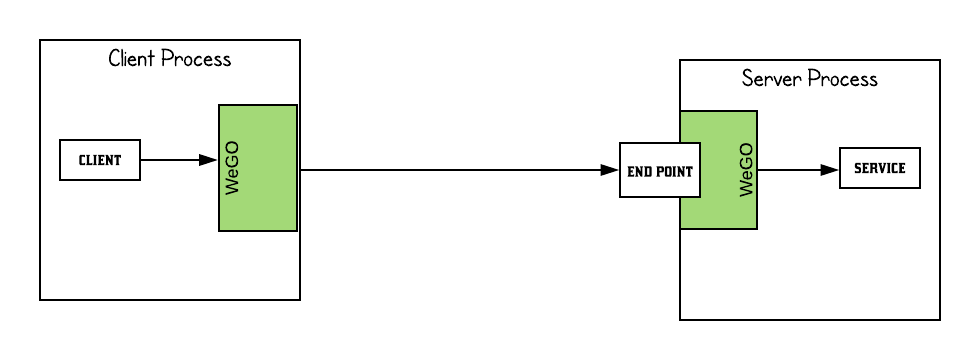
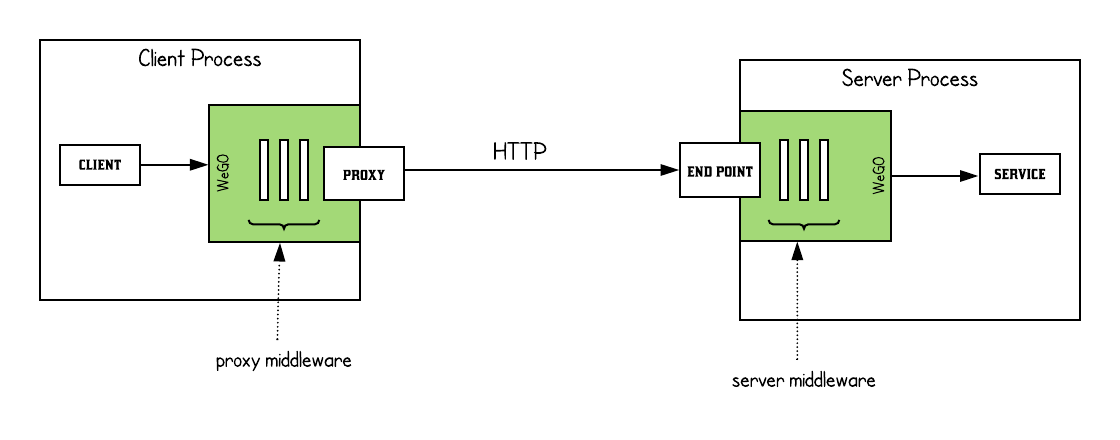
changes for documentation

Changed region(s): [[0.0306, 0.0611, 0.9796, 0.7333], [0.0306, 0.7944, 0.3367, 0.8556], [0.6429, 0.8556, 0.949, 0.9167]]

diff --git a/css/theme-dark.css b/css/theme-dark.css
@@ -4,11 +4,15 @@
     font-size:16px;
 }
 
-body, .panel-body, #myTabContent{
+body, .panel-body{
     background-color: black;
     color: wheat;
 }
 
+#myTabContent{
+    background-color: darkslategrey;
+    color: wheat;
+}
 
 h1 { color: yellow;}
 h2 {color: white;}

diff --git a/pages/wego/core.md b/pages/wego/core.md
@@ -7,75 +7,81 @@ permalink: wego_core.html
 folder: wego
 ---
 ## The WEGO Core Service Mesh Framework 
-WEGO can be thought of as an in process service mesh. It completely abstracts the service from the complexity of dealing with multiple transports, handling transformations and implementing horizontal requirements. On the client side, It can allow clients to access remote services by providing a proxy. 
+WEGO can be thought of as an in process service mesh. It completely abstracts the service from the complexity of dealing with multiple transports, handling transformations and implementing horizontal requirements. 
 
-The concept of transports in WeGO is much more generic and will be discussed in a separate document
+On the client side, it can allow clients to access remote services by providing a proxy. On the server side it provides the transport end point and connects the end point to a service. The transport is also responsible to deserialize the requests and convert them to the form expected by the service. The transport in the return journey, serializes the response and sends it out.
 
-For now, let us discuss this in the context of HTTP.  Look at the diagram below:
+On the client side, the proxy does the thing in reverse. WeGO also handles errors seamlessly and provides standards to emit errors from the server side to the client side. Middlewares are supported on both the client and the server side.
+
+This entire process is illustrated in the diagram below:
 
 ![Interaction Diagram](images/wego/wego_interaction.png)
 
-WeGO library is present in both the client and server process. In the client process, WeGO provides a proxy to interact with the service. The WeGO proxy interacts with the server process via HTTP. In the server process, WeGO provides the transport end point. Upon invocation, the HTTP end point invokes the actual service.
 
-In this way, the WeGO library completely abstracts the service invocation from both the client and the server side. The core framework allows the registration of services and their operations. It provides the fundamental edifice on which the entire framework rests. Here are the salient features of the core framework:
+In this way, the WeGO library completely abstracts the service invocation from both the client and the server side. 
 
-1. Provide ability for a service to register itself with the framework. Services expose operations which accept parameters that can be encoded in multiple ways.  See the http module for a more detailed discussion.
-2. Provide ability for a transport such as HTTP to register itself as an extension to the WeGO framework.
+## The WeGO Core Package
+
+The WeGO Core package allows the registration of services and their operations. It provides the fundamental edifice on which the entire framework rests. Here are the salient features of the core framework:
+
+1. Provide ability for a service to register itself with WeGO. Services expose operations which accept parameters. The entire information is registered in WeGO core.
+2. Provide ability for a transport such as HTTP to register itself as an extension to the WeGO framework. This keeps WeGO core simple and extensible.
 3. Definition and registration of middlewares. These middlewares are invoked whenever the service is invoked. Middlewares can be registered for both client (proxy) and server.
+4. The WeGO core package defines the central model for registration and Middleware that will be used everywhere.
+
  
 ## Service Registration
 
-A service can have one or more multiple methods called Operations. Each operation can in turn accept parameters which can be encoded in multiple ways in the incoming request. 
+A service can have one or more multiple methods called Operations. Each operation can in turn accept parameters which can be encoded in multiple ways in the incoming request. Every service must register itself with the WeGO service mesh using the WeGO core package. 
 
 WeGO services can register themselves in two modes:
-1. Client Mode - the actual service information is registered. However the service is not exposed in this mode using any transport. e
-2. Server Mode -  the service is not only registered. It is also exposed via a transport layer such as HTTP. 
+1. Client Mode - the service information is registered. However the service is not exposed in this mode using any transport. This mode works well in the client side (proxy side) as shown in the diagram above
+2. Server Mode -  the service is not only registered. It is also exposed via a transport layer such as HTTP.  This mode works for the server side shown above. 
 
-Client mode is useful if it is intended to invoke the service using the Proxy framework that WeGO supports.However in this mode,  transports are not supported. Consequently, the service will not be available for 
-remote invocation via HTTP or other means.  Services can only be registered in server mode in one executable. In other executables, the service is registered only as in client mode.
+##  A note on Deployables
+<p class='message'>
+WeGO advocates that a bunch of services must be packaged together into a deployable artifact. A service will be hosted by one deployable in the server mode - i.e. the service will be exposed via HTTP using one deployable only. Other deployables will invoke the service using proxy. The service will be configured in "client mode" in every other deployable. 
+</p>
+Client mode is useful if it is intended to invoke the service using the Proxy framework that WeGO supports.However in this mode,  transports are not supported. 
 
 ## How do services register themselves?
 
 A service is registered using a model object called _Service Descriptor_ that describes the service. It contains Name and a description. Besides that it contains an array of operations that describe the operations that the service supports. Each operation is described using OperationDescriptor.
+
+Here is some code that can be used to typically register the service:
+```go
+import "github.com/agorago/wego/fw" // import WeGO core as fw
+...
+var serviceDescriptor fw.ServiceDescriptor
+// construct serviceDescriptor
+wegoService :=  
+// Get hold of the wegoService first either from command Catalog or some other way
+wegoService.RegisterService("<service-name>",serviceDescriptor)
+```
+
  
-If the service is registered in server mode, then a reference to the actual service is expected to be populated in the  the service descriptor. If service reference is null then it is assumed that the service 
-is registered in client mode. Otherwise, the service reference is required since the transport needs to 
-call the actual service when a request for service is received by the transport end point.
+If the service is registered in server mode, then a reference to the actual service is expected to be populated in the  the service descriptor. If service reference is null then it is assumed that the service is registered in client mode. 
 
 ## Operation Descriptor
 
-Operation descriptors describe the operation that belongs to the service. The operation would be typically
-exposed by the transport. Since an operation is accessible from outside, it will expose a URL. Operations
-are invoked by WeGO when the transport is accessed. (for example when someone invokes the HTTP URL)
+Operation descriptors describe the operation that belongs to the service. The operation would be typically exposed by the transport. Since an operation is accessible from outside, it will expose a URL. Operations are invoked by WeGO when the transport is accessed. (for example when someone invokes the HTTP URL)
 
 Operation descriptor gives details about the operation such as the following:
-name - used to actually invoke the operation from the service reference in ServiceDescriptor
-description, Request Description, Response Description - used to describe the service in generated swagger 
-documentations
-URL - used to expose the operation via HTTP
-OpRequestMaker , OpResponseMaker - These functions generate empty request and response objects. useful to 
-populate the objects from serialized streams of data (such as JSON streams)
-OpMiddleware, ProxyMiddleware - the middleware functions that will be invoked when the operation is invoked
+* name - used to actually invoke the operation from the service reference in ServiceDescriptor
+* description, Request Description, Response Description - used to describe the service in generated swagger documentations
+* URL - used to expose the operation via HTTP
+* OpRequestMaker , OpResponseMaker - These functions generate empty request and response objects. useful to populate the objects from serialized streams of data (such as JSON streams)
+* OpMiddleware, ProxyMiddleware - the middleware functions that will be invoked when the operation is invoked.
 
-## Transports 
-
-Transport provides the end point that initiates all service invocations. Example: an HTTP end point which when invoked, invokes the operation. There are properties in Operation Descriptor which can be used to configure the transport end points. For example, the HTTP end point is configured using the URL property.
-
-Transports are extensions to the core WeGO framework amd expose the service using an end point such as a URL. Transports take care of serialization and de-serialization of requests and responses.
+Please see [stringdemo service](https://github.com/agorago/stringdemoapi/blob/master/register/register.go) for an example. 
 
 ## Param Descriptor
 
-ParamDescriptor allows the registration of each parameter that needs to be passed to the operation on invocation.
-An operation can have the following types of parameters as determined by ParamOrigin:
-Context - a mandatory first parameter for every operation. It should always be with name ctx. This
-contains the entire context of the request.
-HEADER - a parameter that is derived from a header in the request. In HTTP, HEADER parameters are 
-passed as a HTTP HEADER attribute. Alternately, HTTP query params and PATH params are also 
-available as header params.
-PAYLOAD - the payload parameter is passed as part of the body of the request. (for example HTTP 
-request body) Payload will be de-serialized from a resource stream such as JSON.
+ParamDescriptor allows the registration of each parameter that needs to be passed to the operation on invocation. An operation can have the following types of parameters as determined by ParamOrigin:
+* Context - a mandatory first parameter for every operation. It should always be with name ctx. This contains the entire context of the request. WeGO mandates that all exposed operations accept context as the first parameter. (This is idiomatic GO also)
+* HEADER - a parameter that is derived from a header in the request. In HTTP, HEADER parameters are passed as a HTTP HEADER attribute. Alternately, HTTP query params and PATH params are also available as header params.
+* PAYLOAD - the payload parameter is passed as part of the body of the request. (for example HTTP request body) Payload will be de-serialized from a resource stream such as JSON.
 
-## Middleware Chain
+## Middleware & Middleware Chain
 
-The framework package defines a Middleware Chain. This implements the chain of responsibility pattern.
-Please see middleware_test.go to get an idea about the usage of this class.
+The WeGO Core package defines Middleware and Middleware Chain. These implement the chain of responsibility pattern. We will discuss this in more detail in the [Middleware](wego_middleware.html) section.
